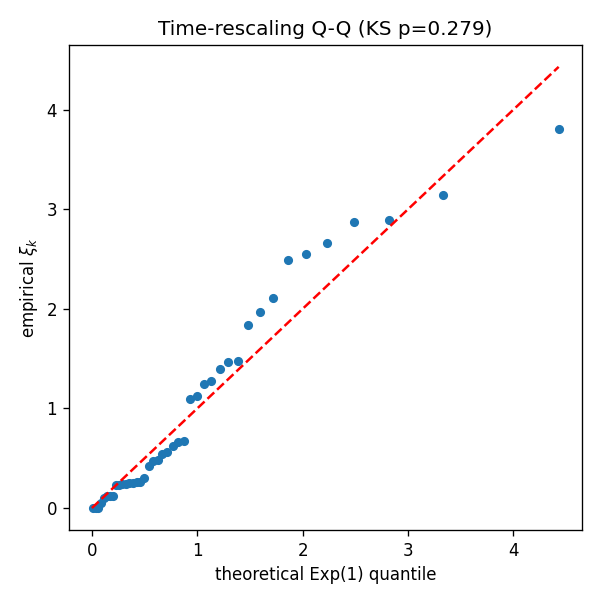
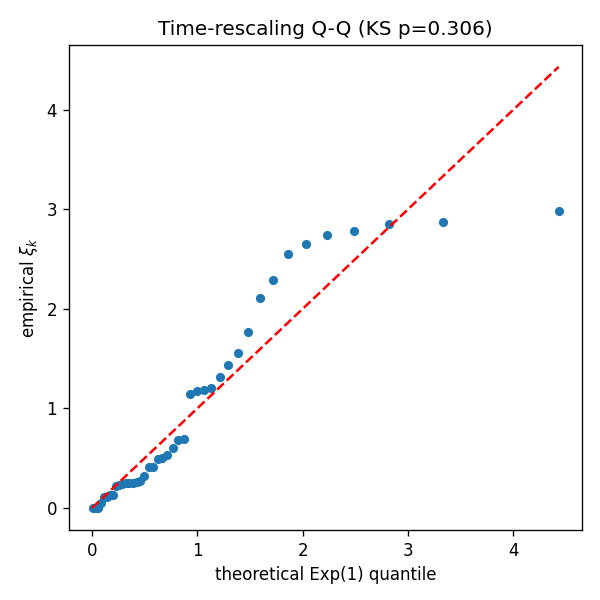
Update results with new figures and revised summary data
- Added new figures: fig04_profile_kappa.png, fig05_fisher_spectrum.png, fig06_phase0_distribution.png, fig07_phase1_distribution.png, fig08_hb_spock.png, fig09_phase2_marked.png, and fig10_active_constraint.png.
- Removed outdated figure fig04_likelihood_ridge.png.
- Updated final_summary.json with new fitting parameters and frozen date.
- Revised README.md to reflect changes in figure descriptions and added new figures to the documentation.

diff --git a/results/README.md b/results/README.md
@@ -8,11 +8,12 @@ snapshots referenced by the top-level README and by the paper.
 
 | File | Description |
 |---|---|
-| `spock_fit.json` | Best free-MLE fit on the Spock cascade plus the top-five ridge fits. The unconstrained MLE does not recover the reported parameters (unmarked plug-in `n* ~ 1.19` vs. reported `n* = 0.92`). |
-| `fig01_spock_cascade.png` | Spock cascade event stem-plot (full timeline + 600 s observation window). **(fig 1)** |
-| `fig02_intensity_fit.png` | Fitted marked-Hawkes intensity overlaid on observed events. **(fig 2)** |
-| `fig03_residual_qq.png` | Time-rescaled residuals Q–Q vs. `Exp(1)`; KS not rejected (p = 0.305) but with systematic upper-tail deviation. **(fig 3)** |
-| `fig04_likelihood_ridge.png` | The likelihood ridge: five near-identical fits span `κ` over ~6 orders of magnitude (`ΔNLL = 0.17`); the reported point lies on the ridge. **(fig 4)** |
+| `spock_fit.json` | Free-MLE fit on the Spock cascade (4-parameter seed-excluded `mu = 0` model) plus the top-five ridge fits and the constrained fit. The unconstrained MLE does not recover the reported parameters: free fit `(κ, β, c, θ) = (7.6e4, 2.58, 1278, 4.69)`, plug-in `n* = 1.18` (NLL 147.34), versus the constrained fit reproducing the reported `n* = 0.92` (closed-form, NLL 148.11). |
+| `fig01_spock_cascade.png` | Spock cascade event stem-plot (full timeline + 600 s observation window, `N_obs = 43`). **(fig 1)** |
+| `fig02_intensity_fit.png` | Fitted marked-Hawkes intensity overlaid on observed events (peak ≈ 0.16). **(fig 2)** |
+| `fig03_residual_qq.png` | Time-rescaled residuals Q–Q vs. `Exp(1)`; KS not rejected (p = 0.306) but with systematic upper-tail deviation. **(fig 3)** |
+| `fig04_profile_kappa.png` | κ profile likelihood: fixing `κ` over six decades (`10²–10⁸`) leaves `ΔNLL ≤ 0.012` (left), and the plug-in `n*` stays supercritical (`1.17–1.20`) along the profile (right). The kernel scale is non-identified. **(fig 4)** |
+| `fig05_fisher_spectrum.png` | Observed Fisher information at the unconstrained optimum: eigenvalue spectrum with condition number `≈ 1.2e15` (left), and the softest eigenvector aligned with `κ` while the stiffest mixes `β, θ` (right). **(fig 5)** |
 
 ## Synthetic recovery and cross-validation (§4.3–4.7)
 
@@ -21,23 +22,23 @@ Frozen experimental snapshots (loaded as input by `main.ipynb` when
 
 | File | Description |
 |---|---|
-| `phase0_E{1,2,3}_results.json` | 20-rep recovery of an *exponential* Hawkes kernel at `n* = 0.3 / 0.7 / 0.9`. Implementation-validity check (E2 and E3 within tolerance). |
-| `phase1_R{1,2,3}_results.json` | 20-rep recovery of an *unmarked power-law* Hawkes kernel at the same `n*`. Exposes the `(α, δ, η)` ridge; worsens toward criticality. |
-| `hb_spock.json` | Hardiman–Bouchaud `Δt` sub-window sweep on the Spock cascade (`Δt ∈ {60, 120, 300, 600, 1800}` s). Independent cross-check; `n* < 1` across all `Δt`. |
+| `phase0_E{1,2,3}_results.json` | 20-rep recovery of an *exponential* Hawkes kernel at `n* = 0.3 / 0.7 / 0.9`. Implementation-validity check (`n̂*` median 0.299 / 0.677 / 0.888; KS 20/20). |
+| `phase1_R{1,2,3}_results.json` | 20-rep recovery of an *unmarked power-law* Hawkes kernel at the same `n*`. Exposes the `(α, δ, η)` ridge; `n̂*` median 0.281 / 0.510 / 96.6, worsening toward criticality. |
+| `hb_spock.json` | Hardiman–Bouchaud `Δt` sub-window sweep on the Spock cascade (`Δt ∈ {60, 120, 300, 600, 1800}` s). Independent cross-check; `n̂_HB = 0.51–0.88`, below 1 across all `Δt`. |
 
 Derived outputs (produced when the notebook runs):
 
 | File | Description |
 |---|---|
 | `phase2_marked.json` | Marked power-law recovery, three regimes × 10 reps (seeds 424242 / 70707 / 909090). `n*` medians 0.16 → 2.69 → 18.4; `β` medians 1.14 → 1.65 → 1.63. |
-| `active80_faithful.json` | ACTIVE faithful-constraint fits (80 cascades, SLSQP `n* < 1`). 94 % subcritical, ~44 % at the `n* ≈ 0.92` boundary; empirical `α` median 1.18. |
+| `active80_faithful.json` | ACTIVE faithful-constraint fits (80 cascades, SLSQP `n* < 1`). 91 % subcritical, ~46 % at the `n* ≈ 0.92` boundary; empirical mark `α` median 1.18; closed form void (`β ≥ α − 1`) in 55 %. |
 | `diag2_alpha.json` | Per-cascade Hill-estimated mark Pareto exponent `α` for the 80 ACTIVE cascades. |
 | `final_summary.json` | Aggregated verdict combining the Spock free / constrained fits, Phase 0 / 1 / 2, Hardiman–Bouchaud, and ACTIVE. |
-| `fig05_phase0_distribution.png` | Phase 0 `n̂*` histograms per regime. **(fig 5)** |
-| `fig06_phase1_distribution.png` | Phase 1 `n̂*` histograms per regime. **(fig 6)** |
-| `fig07_hb_spock.png` | Hardiman–Bouchaud `Δt` sweep (`Δt`-dependent estimate vs. single-value MLE reference lines). **(fig 7)** |
-| `fig08_phase2_marked.png` | Phase 2: `n̂*` worsening toward criticality + `β` over-estimation. **(fig 8)** |
-| `fig09_active_constraint.png` | ACTIVE: subcriticality depends jointly on the `n* < 1` constraint and the `α = 2.016` mark assumption. **(fig 9)** |
+| `fig06_phase0_distribution.png` | Phase 0 `n̂*` histograms per regime. **(fig 6)** |
+| `fig07_phase1_distribution.png` | Phase 1 `n̂*` histograms per regime. **(fig 7)** |
+| `fig08_hb_spock.png` | Hardiman–Bouchaud `Δt` sweep (`Δt`-dependent estimate vs. single-value MLE reference lines). **(fig 8)** |
+| `fig09_phase2_marked.png` | Phase 2: `n̂*` worsening toward criticality + `β` over-estimation. **(fig 9)** |
+| `fig10_active_constraint.png` | ACTIVE: subcriticality depends jointly on the `n* < 1` constraint and the `α = 2.016` mark assumption. **(fig 10)** |
 
 ## Files generated locally (not pre-included)
 
@@ -45,7 +46,16 @@ The following are produced when you run the notebook with the data in place,
 and are **not** committed here because they require the external Spock CSV:
 
 * `fig01_spock_cascade.png`, `fig02_intensity_fit.png`, `fig03_residual_qq.png`
-* `fig05_phase0_distribution.png`, `fig06_phase1_distribution.png`
+* `fig04_profile_kappa.png`, `fig05_fisher_spectrum.png`
+* `fig06_phase0_distribution.png`, `fig07_phase1_distribution.png`
 * `final_summary.json` (aggregated verdict)
 
 All other JSON and PNG artifacts referenced above are included.
+
+## Frozen dates
+
+* Real-data cascade fit refrozen 2026-06-17 (`spock_fit.json`, `final_summary.json`,
+  4-parameter seed-excluded `mu = 0` schema)
+* H-B cross-check 2026-05-24
+* Phase 0 / Phase 1 supplement 2026-05-24
+* Phase 2 and ACTIVE generated in this study